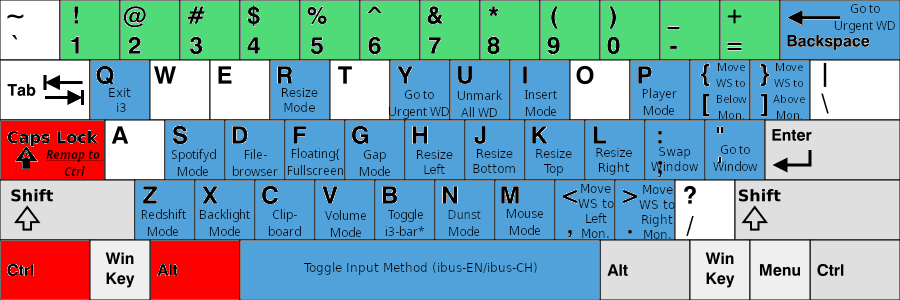
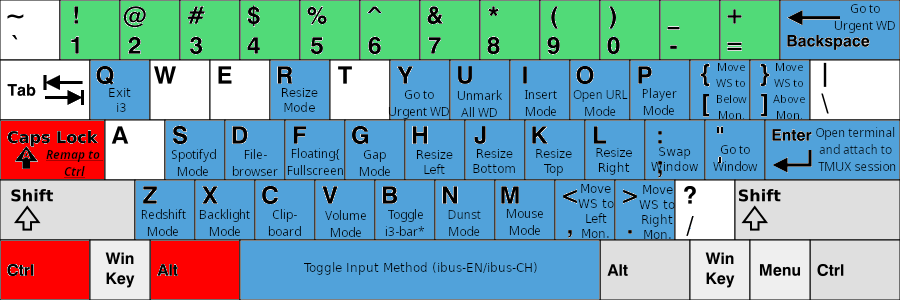
update:add_open_URL_mode,attach_to_tmux_session_function

Changed region(s): [[0.84, 0.39, 1.0, 0.6], [0.6222, 0.18, 0.7156, 0.42]]

diff --git a/README.md b/README.md
@@ -260,7 +260,9 @@ Note: the term "window" used in this configuration actually refers to "container
 - __Redshift Mode (`[Ctrl]` + `[Alt]` + `[z]`)__
     - Screen color temperature tuner
 - __Dunst Mode (`[Ctrl]` + `[Alt]` + `[n]`)__
-    - Dunst actions, including stopping or resuming Dunst
+    - Dunst actions, including pausing or resuming Dunst
+- __Open URL Mode (`[Ctrl]` + `[Alt]` + `[o]`)__
+    - Open URL in web browser
 
 </details>
 
